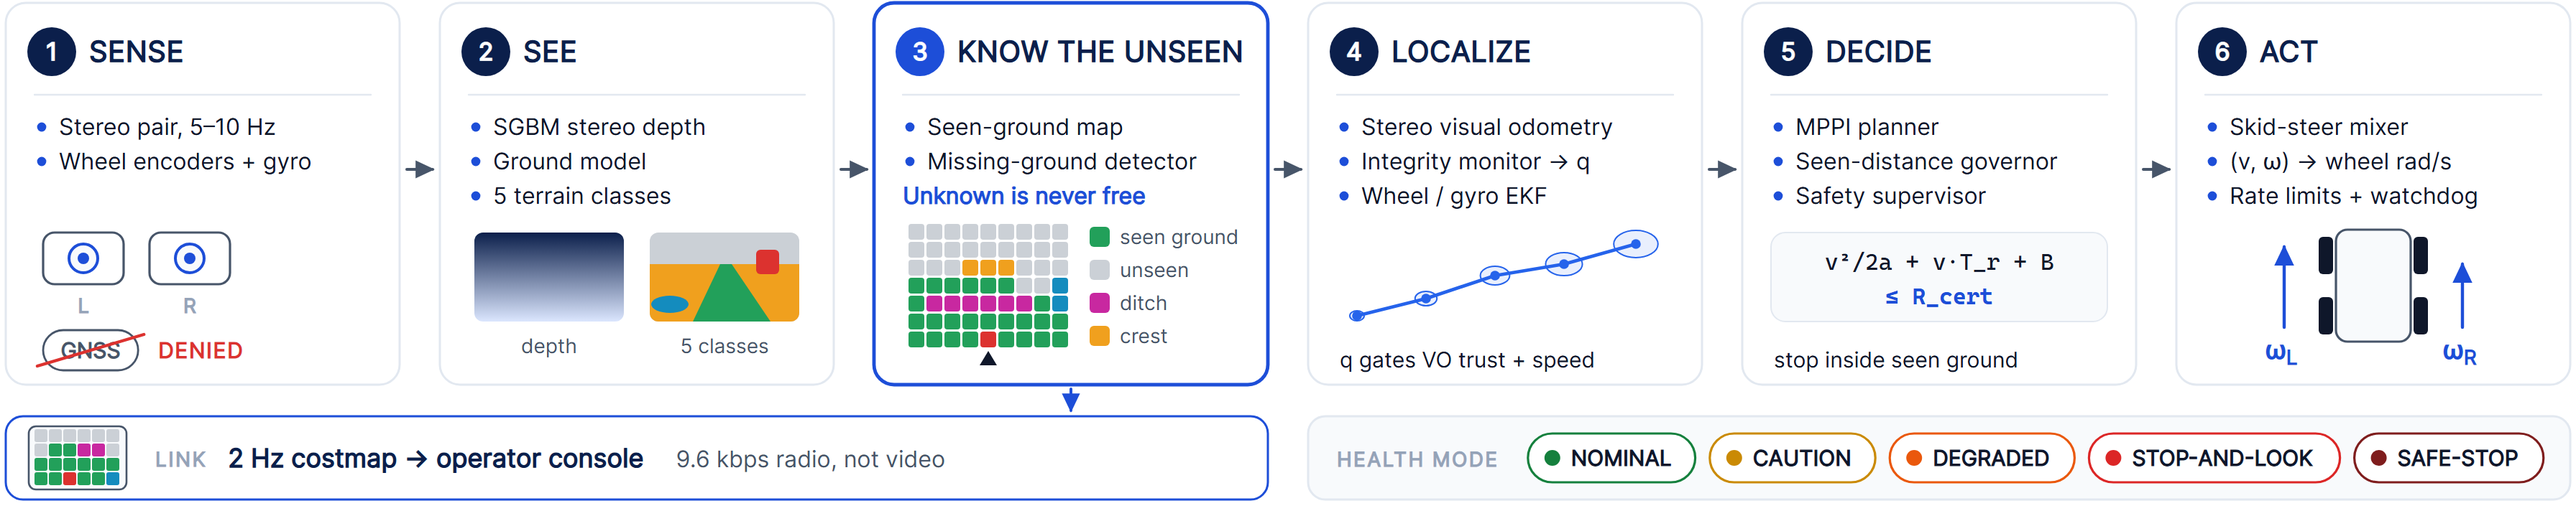
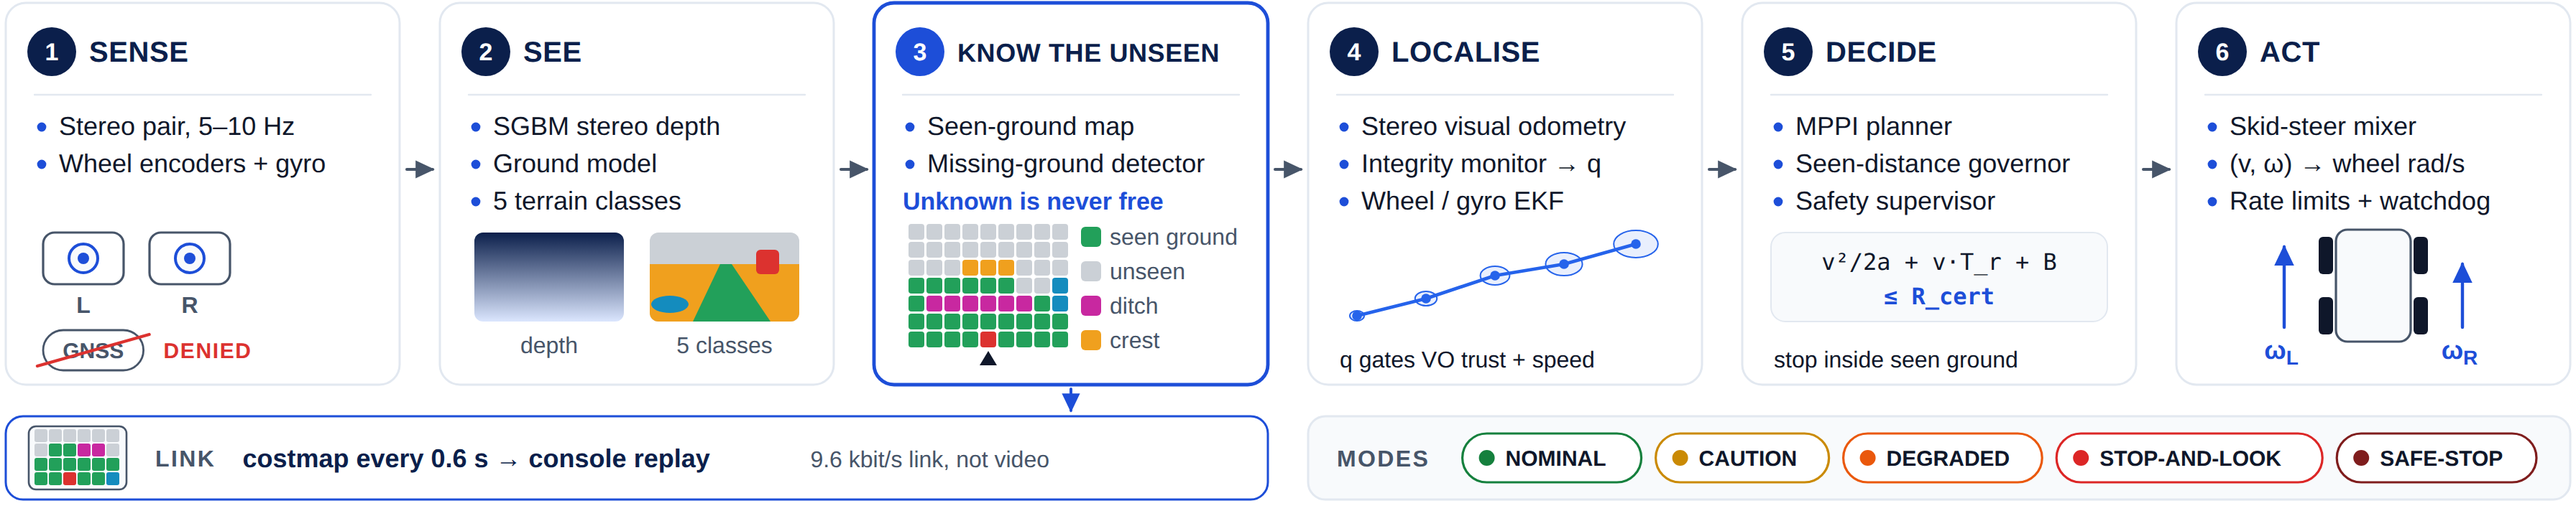
Slot diagrams: 0.6 s packet period, larger labels, Ground legend row
The how-it-works link strip now states the measured telemetry period
(derived from defaults.py) instead of 2 Hz; the modes strip is relabelled
MODES so SAFE-STOP no longer clips. The missing-ground figure gains a Ground
legend row and clearer wall labels. Unchanged slots are left as committed.

Claude-Session: https://claude.ai/code/session_01WyKCCAJ7MKHNqea3W8Cc6h

diff --git a/deck_assets/diagrams/build_diagrams.py b/deck_assets/diagrams/build_diagrams.py
@@ -56,6 +56,10 @@ LOG = logging.getLogger("build_diagrams")
 OUT_DIR = Path(__file__).resolve().parent
 
 T = ps.TOKENS
+# Telemetry goes out on the control tick that follows each 1/TELEMETRY_HZ timer expiry, so the real
+# period is a whole number of ticks: every 3rd 5 Hz tick = 0.6 s (median 0.6 s in the EVAL logs,
+# results/deck_extras.json#closed_loop_eval_tier0_FULL_telemetry_period_s).
+TELEMETRY_PERIOD_S = math.ceil(D.CAMERA_HZ_BATCH / D.TELEMETRY_HZ) / D.CAMERA_HZ_BATCH
 C = {s: ps.CELL_HEX[s] for s in CellState}
 MODE = ps.MODE_COLORS
 FONT = "Inter, 'Segoe UI', Arial, sans-serif"
@@ -835,7 +839,7 @@ def slot_how_it_works() -> Svg:
         ("SENSE", [f"Stereo pair, {FACTS['cam_hz']}", "Wheel encoders + gyro"]),
         ("SEE", ["SGBM stereo depth", "Ground model", "5 terrain classes"]),
         ("KNOW THE UNSEEN", ["Seen-ground map", "Missing-ground detector"]),
-        ("LOCALIZE", ["Stereo visual odometry", "Integrity monitor → q", "Wheel / gyro EKF"]),
+        ("LOCALISE", ["Stereo visual odometry", "Integrity monitor → q", "Wheel / gyro EKF"]),
         ("DECIDE", ["MPPI planner", "Seen-distance governor", "Safety supervisor"]),
         ("ACT", ["Skid-steer mixer", "(v, ω) → wheel rad/s", "Rate limits + watchdog"]),
     ]
@@ -849,10 +853,10 @@ def slot_how_it_works() -> Svg:
         y = y0 + 92
         for row in rows:
             s.circle(x + 25, y - 5.5, 3.2, fill=T["accent"])
-            s.text(x + 37, y, row, size=16)
-            y += 24
+            s.text(x + 37, y, row, size=18)
+            y += 26
         if core:
-            s.text(x + 20, y, "Unknown is never free", size=16, weight=700, fill=T["accent"])
+            s.text(x + 20, y, "Unknown is never free", size=17, weight=700, fill=T["accent"])
         if i < 5:
             arrow_h(s, x + cw + 5, x + cw + gap - 5, y0 + 116)
     _slot_how_glyphs(s, xs, y0 + 160, cw)
@@ -871,18 +875,18 @@ def slot_how_it_works() -> Svg:
         for c, ch_ in enumerate(row):
             s.rect(gx + 4 + c * 10, gy + 2 + r * 10, 9, 9, fill=code[ch_], rx=1.5)
     tx, base = gx + 68 + 20, sy + sh / 2 + 6.5
-    s.text(tx, base - 0.5, "LINK", size=14, weight=700, fill=T["text_muted"], ls=1.2)
-    tx += measure("LINK", 14, 700, ls=1.2) + 14
-    main = f"{FACTS['telemetry_hz']} costmap → operator console"
+    s.text(tx, base - 0.5, "LINK", size=16, weight=700, fill=T["text_secondary"], ls=1.2)
+    tx += measure("LINK", 16, 700, ls=1.2) + 14
+    main = f"costmap every {TELEMETRY_PERIOD_S:g} s → console replay"
     s.text(tx, base, main, size=18, weight=700, fill=T["navy"])
     tx += measure(main, 18, 700) + 16
-    s.text(tx, base, f"{FACTS['link_kbps']} radio, not video", size=16, fill=T["text_secondary"])
+    s.text(tx, base, f"{D.LINK_KBPS:g} kbit/s link, not video", size=16, fill=T["text_secondary"])
 
     hx = xs[3]
     hw = xs[5] + cw - hx
     s.card(hx, sy, hw, sh, fill=T["surface"], stroke=T["border"], rx=12)
-    s.text(hx + 20, base - 0.5, "HEALTH MODE", size=14, weight=700, fill=T["text_muted"], ls=1.2)
-    cx = hx + 20 + measure("HEALTH MODE", 14, 700, ls=1.2) + 18
+    s.text(hx + 20, base - 0.5, "MODES", size=16, weight=700, fill=T["text_secondary"], ls=1.2)
+    cx = hx + 20 + measure("MODES", 16, 700, ls=1.2) + 16
     modes = [("NOMINAL", "NOMINAL"), ("CAUTION", "CAUTION"), ("DEGRADED", "DEGRADED"),
              ("STOP_AND_LOOK", "STOP-AND-LOOK"), ("SAFE_STOP", "SAFE-STOP")]
     ph = 34
@@ -911,7 +915,7 @@ def _slot_how_glyphs(s: Svg, xs: list[int], vy: float, cw: int) -> None:
         s.rect(cx - 28, vy, 56, 36, fill=T["bg"], stroke=T["text_secondary"], sw=1.6, rx=8)
         s.circle(cx, vy + 18, 10, fill=T["surface"], stroke=T["accent"], sw=2)
         s.circle(cx, vy + 18, 4, fill=T["accent"])
-        s.text(cx, vy + 56, lab, size=14, weight=700, fill=T["text_muted"], anchor="middle")
+        s.text(cx, vy + 56, lab, size=16, weight=700, fill=T["text_secondary"], anchor="middle")
     gy, gw = vy + 68, measure("GNSS", 15, 700) + 24
     s.rect(x + 26, gy, gw, 28, fill=T["bg"], stroke=T["text_secondary"], sw=1.4, rx=14)
     s.text(x + 26 + gw / 2, gy + 19.5, "GNSS", size=15, weight=700, fill=T["text_secondary"], anchor="middle")
@@ -925,7 +929,7 @@ def _slot_how_glyphs(s: Svg, xs: list[int], vy: float, cw: int) -> None:
           f'<stop offset="0" stop-color="{T["navy"]}"/><stop offset="1" stop-color="#DBE6FE"/></linearGradient>'
           f'<clipPath id="slotseg"><rect x="{x + cw - 24 - bw}" y="{vy}" width="{bw}" height="{bh}" rx="6"/></clipPath></defs>')
     s.rect(x + 24, vy, bw, bh, fill="url(#slotdisp)", rx=6)
-    s.text(x + 24 + bw / 2, vy + bh + 22, "depth", size=14, fill=T["text_secondary"], anchor="middle")
+    s.text(x + 24 + bw / 2, vy + bh + 22, "depth", size=16, fill=T["text_secondary"], anchor="middle")
     sx = x + cw - 24 - bw
     s.raw('<g clip-path="url(#slotseg)">')
     s.rect(sx, vy, bw, bh, fill=C[CellState.UNSEEN])
@@ -934,7 +938,7 @@ def _slot_how_glyphs(s: Svg, xs: list[int], vy: float, cw: int) -> None:
     s.raw(f'<ellipse cx="{sx + 14}" cy="{vy + 50}" rx="13" ry="6" fill="{C[CellState.WATER]}"/>')
     s.rect(sx + 74, vy + 12, 16, 17, fill=C[CellState.POSITIVE], rx=3)
     s.raw("</g>")
-    s.text(sx + bw / 2, vy + bh + 22, "5 classes", size=14, fill=T["text_secondary"], anchor="middle")
+    s.text(sx + bw / 2, vy + bh + 22, "5 classes", size=16, fill=T["text_secondary"], anchor="middle")
 
     # 3 KNOW THE UNSEEN: mini seen-ground map + key
     x = xs[2]
@@ -951,9 +955,9 @@ def _slot_how_glyphs(s: Svg, xs: list[int], vy: float, cw: int) -> None:
     key = [("seen ground", CellState.GROUND), ("unseen", CellState.UNSEEN), ("ditch", CellState.DITCH_CANDIDATE),
            ("crest", CellState.CREST_SHADOW)]
     for k, (lab, st) in enumerate(key):
-        kx, ky = x + 150, vy - 4 + k * 23
+        kx, ky = x + 144, vy - 4 + k * 24
         s.swatch(kx, ky, C[st], size=14, rx=3)
-        s.text(kx + 21, ky + 12, lab, size=14, fill=T["text_secondary"])
+        s.text(kx + 20, ky + 12.5, lab, size=16, fill=T["text_secondary"])
 
     # 4 LOCALIZE: VO track with growing uncertainty ellipses
     x = xs[3]
@@ -963,14 +967,14 @@ def _slot_how_glyphs(s: Svg, xs: list[int], vy: float, cw: int) -> None:
         s.raw(f'<ellipse cx="{px}" cy="{py}" rx="{5 + 2.6 * k:.1f}" ry="{3.5 + 1.5 * k:.1f}" fill="{T["vo_blue"]}" '
               f'fill-opacity="0.10" stroke="{T["vo_blue"]}" stroke-width="1"/>')
         s.circle(px, py, 3.4, fill=T["vo_blue"])
-    s.text(x + 22, vy + 94, "q gates VO trust + speed", size=15)
+    s.text(x + 22, vy + 94, "q gates VO trust + speed", size=16)
 
     # 5 DECIDE: seen-distance governor inequality
     x = xs[4]
     s.rect(x + 20, vy, cw - 40, 62, fill=T["surface"], stroke=T["border"], rx=10)
     s.text(x + cw / 2, vy + 26, "v²/2a + v·T_r + B", size=16, mono=True, anchor="middle")
     s.text(x + cw / 2, vy + 50, "≤ R_cert", size=16, mono=True, anchor="middle", fill=T["accent"], weight=700)
-    s.text(x + 22, vy + 94, "stop inside seen ground", size=15)
+    s.text(x + 22, vy + 94, "stop inside seen ground", size=16)
 
     # 6 ACT: top-down skid-steer glyph with wheel-speed arrows
     x = xs[5]
@@ -1068,7 +1072,7 @@ def slot_missing_ground() -> Svg:
     # callouts
     s.text(lip - 10, g_y + 26, "near lip", size=18, weight=700, anchor="end")
     s.text((lip + far) / 2, depth_y - 10, "never observed", size=18, weight=700, anchor="middle")
-    s.lines(far + 12, g_y + 30, ["far wall seen", "below the lip"], size=18, lh=22, fill=mag, weight=700)
+    s.lines(far + 12, g_y + 30, ["far wall", "seen below", "the lip"], size=18, lh=22, fill=mag, weight=700)
 
     # ---------------------------------------------------------------- right: one image column
     ix, iw = 740, 438
@@ -1103,15 +1107,16 @@ def slot_missing_ground() -> Svg:
     u_lip = next(u for u in us if ground_range(u) >= r_lip)
     ja, jb = to_px(u_lip, r_lip), to_px(u_lip, r_lip + w_d)
     s.line(ja[0] - 14, ja[1] + 2, ja[0] - 14, jb[1] + 4, stroke=T["text"], sw=1.6, arrow=True)
-    s.lines(ja[0] - 24, (ja[1] + jb[1]) / 2 - 2, ["range", "jump ≈ w"], size=18, lh=21, anchor="end", weight=700)
+    s.lines(ja[0] - 42, (ja[1] + jb[1]) / 2 - 2, ["range", "jump ≈ w"], size=18, lh=21, anchor="end", weight=700)
     u_last = max(u for u in us if r_lip <= ground_range(u) < r_lip + w_d)  # last far-wall row
     s.text(to_px(u_last, 0)[0] - 2, jb[1] - 14, "far wall: flat range", size=17, fill=mag, weight=700, anchor="end")
-    legend = [(mag, "Ditch", "far wall near lip height"),
+    legend = [(green, "Ground", "range rises smoothly"),
+              (mag, "Ditch", "far wall near lip height"),
               (C[CellState.CREST_SHADOW], "Crest", "ground reappears far below"),
               (grey, "Unseen", "never observed, never free")]
     why_x = ix + 50 + max(measure(name, 18, 700) for _, name, _ in legend) + 12  # shared column
     for k, (col, name, why) in enumerate(legend):
-        yy = ly + 290 + k * 32
+        yy = ly + 282 + k * 28
         s.swatch(ix + 22, yy - 15, col, size=18)
         s.text(ix + 50, yy, name, size=18, weight=700)
         s.text(why_x, yy, why, size=18, fill=T["text_secondary"])
